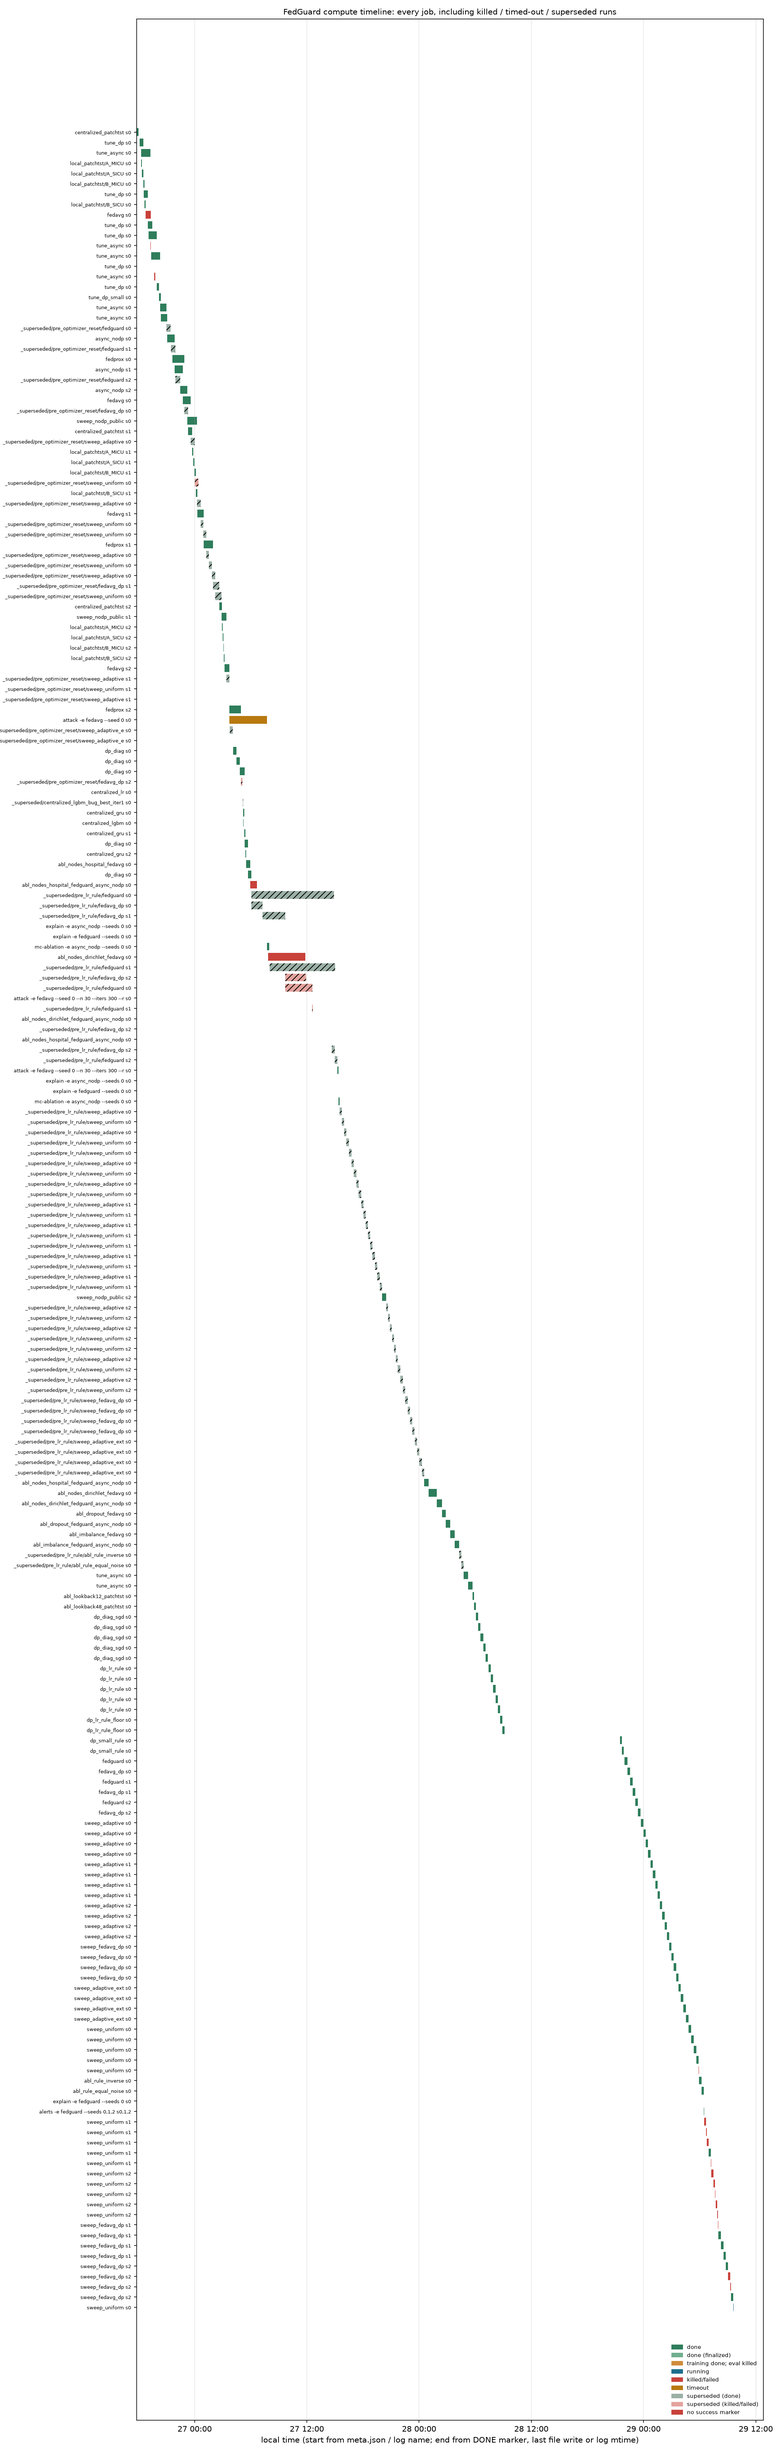
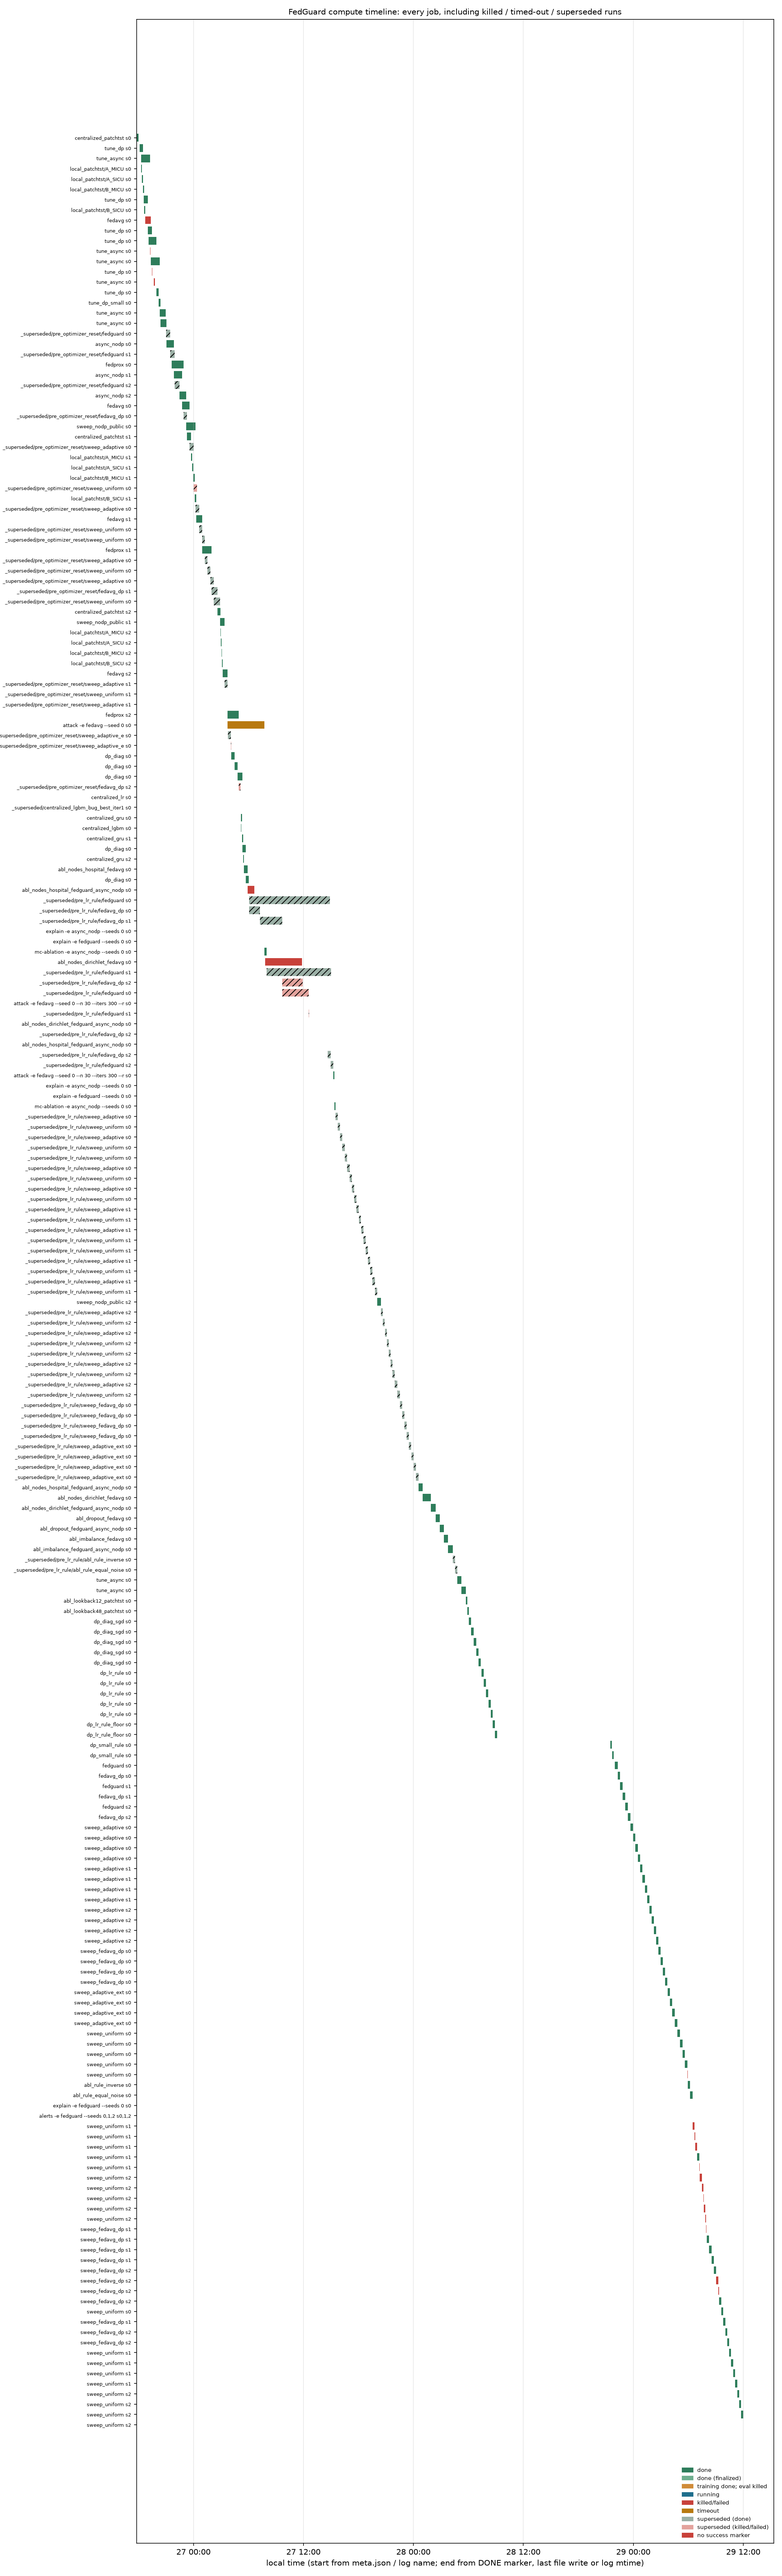
Report + proof after retry of the 13 failed DP runs

diff --git a/results/tables/privacy.tex b/results/tables/privacy.tex
@@ -2,11 +2,11 @@
 \toprule
 epsilon & FedGuard (adaptive) AUROC & FedGuard (adaptive) AUPRC & FedGuard (uniform rule) AUROC & FedGuard (uniform rule) AUPRC & FedAvg + DP (uniform) AUROC & FedAvg + DP (uniform) AUPRC \\
 \midrule
-1.000000 & 0.619 ± 0.030 & 0.026 ± 0.004 & 0.638 (n=1) & 0.028 (n=1) & 0.614 ± 0.036 & 0.025 ± 0.002 \\
-2.000000 & 0.618 ± 0.017 & 0.024 ± 0.002 & 0.637 (n=1) & 0.027 (n=1) & 0.622 ± 0.019 & 0.025 ± 0.004 \\
-3.000000 & 0.620 ± 0.018 & 0.024 ± 0.002 & 0.640 (n=1) & 0.026 (n=1) & 0.615 ± 0.017 & 0.024 ± 0.003 \\
-5.000000 & 0.616 ± 0.015 & 0.024 ± 0.003 & 0.616 ± 0.020 & 0.024 ± 0.004 & 0.611 ± 0.029 & 0.024 ± 0.005 \\
-8.000000 & 0.615 ± 0.013 & 0.024 ± 0.003 & not run yet & not run yet & 0.608 ± 0.021 & 0.024 ± 0.004 \\
+1.000000 & 0.619 ± 0.030 & 0.026 ± 0.004 & 0.614 ± 0.022 & 0.025 ± 0.003 & 0.617 ± 0.026 & 0.024 ± 0.002 \\
+2.000000 & 0.618 ± 0.017 & 0.024 ± 0.002 & 0.619 ± 0.017 & 0.024 ± 0.002 & 0.615 ± 0.019 & 0.024 ± 0.003 \\
+3.000000 & 0.620 ± 0.018 & 0.024 ± 0.002 & 0.620 ± 0.018 & 0.024 ± 0.002 & 0.615 ± 0.017 & 0.024 ± 0.003 \\
+5.000000 & 0.616 ± 0.015 & 0.024 ± 0.003 & 0.616 ± 0.020 & 0.024 ± 0.004 & 0.611 ± 0.021 & 0.024 ± 0.004 \\
+8.000000 & 0.615 ± 0.013 & 0.024 ± 0.003 & 0.617 ± 0.018 & 0.024 ± 0.004 & 0.608 ± 0.021 & 0.024 ± 0.004 \\
 16.000000 & 0.628 (n=1) & 0.027 (n=1) & not run yet & not run yet & not run yet & not run yet \\
 32.000000 & 0.628 (n=1) & 0.027 (n=1) & not run yet & not run yet & not run yet & not run yet \\
 64.000000 & 0.629 (n=1) & 0.028 (n=1) & not run yet & not run yet & not run yet & not run yet \\

diff --git a/docs/proof_of_compute.md b/docs/proof_of_compute.md
@@ -1,15 +1,15 @@
 # Proof of compute
 
-_Generated 2026-09-29 09:36 by `fedguard proof` from files on disk only (see the source list in `src/fedguard/eval/proof.py`). Nothing in this document is estimated or typed in by hand, except the section explicitly labelled as manual GPU readings. Regenerate with `fedguard proof`._
+_Generated 2026-09-29 18:55 by `fedguard proof` from files on disk only (see the source list in `src/fedguard/eval/proof.py`). Nothing in this document is estimated or typed in by hand, except the section explicitly labelled as manual GPU readings. Regenerate with `fedguard proof`._
 
 ## Summary
 
-- Jobs recorded (excluding 95 fast-mode smoke-test jobs): **212** (209 GPU jobs, 3 CPU-only sklearn baselines), from 2026-09-26 17:46 to 2026-09-29 09:36.
-- **GPU job-hours: 91.6 h.** This is the sum of the wall-clock durations of all GPU jobs, including failed, killed and superseded ones. Jobs that shared the GPU are each counted in full.
-- **GPU busy wall-clock: 50.9 h.** This is the union of GPU job intervals, i.e. time during which at least one job was running.
+- Jobs recorded (excluding 95 fast-mode smoke-test jobs): **223** (220 GPU jobs, 3 CPU-only sklearn baselines), from 2026-09-26 17:46 to 2026-09-29 11:59.
+- **GPU job-hours: 94.0 h.** This is the sum of the wall-clock durations of all GPU jobs, including failed, killed and superseded ones. Jobs that shared the GPU are each counted in full.
+- **GPU busy wall-clock: 53.2 h.** This is the union of GPU job intervals, i.e. time during which at least one job was running.
 - Maximum number of GPU jobs running at the same time: **6**.
 - GPU jobs with **unknown duration** (excluded from the totals above): 1 (attack -e fedavg --seed 0 --n 30 --iters 300 --restarts 2, started 2026-09-27 12:00).
-- GPU jobs by status: done: 117 (39.4 h), superseded (done): 58 (35.4 h), killed/failed: 21 (7.0 h), superseded (killed/failed): 9 (5.8 h), no success marker: 2 (0.0 h), running: 1 (0.0 h), timeout: 1 (4.0 h).
+- GPU jobs by status: done: 128 (41.7 h), superseded (done): 58 (35.4 h), killed/failed: 22 (7.1 h), superseded (killed/failed): 9 (5.8 h), no success marker: 2 (0.0 h), timeout: 1 (4.0 h).
 - GPU: NVIDIA GeForce RTX 4050 Laptop GPU.
 
 Failed, killed, timed-out and superseded runs are kept on purpose. They document the bugs and operational problems found and fixed during the project (docs/decisions.md D19–D38): an optimizer-state bug that invalidated the first DP results, a fixed DP learning rate that made the ε sweep collapse at large ε (superseded by the σ-scaled rule), hung jobs, watchdog false positives (including a kill of a new job whose pid Windows had reused), GPU memory overflow with several concurrent DP jobs, system-RAM exhaustion (MemoryError) caused by the OneDrive client holding ~31 GB, and a LightGBM early-stopping bug.
@@ -29,10 +29,10 @@ Failed, killed, timed-out and superseded runs are kept on purpose. They document
 
 ### From automated logs
 
-Automated samples: 5373 (nvidia-smi every 30 s) from 2026-09-27T12:40:15 to 2026-09-29T09:36:27.
+Automated samples: 6486 (nvidia-smi every 30 s) from 2026-09-27T12:40:15 to 2026-09-29T18:54:51.
 
 - **Peak dedicated GPU memory in the automated log: 5355 / 6141 MiB** at 2026-09-27T13:01:57 (2 FedGuard job(s) running, utilisation 100%).
-- Mean memory used: 2426 MiB; mean utilisation: 41%.
+- Mean memory used: 2191 MiB; mean utilisation: 37%.
 - Samples by number of concurrent FedGuard jobs (max memory MiB): 0 job(s): 1077, 1 job(s): 5242, 2 job(s): 5355
 
 - Highest per-run peak allocation recorded by a run itself (torch.cuda.max_memory_allocated): 2973 MiB (fedguard, seed 1).
@@ -262,11 +262,63 @@ These readings were taken by hand with `nvidia-smi` during the session, **before
 | sweep_fedavg_dp                                           | 2      | fedavg/sync, DP eps=2.0 uniform, opt-reset                        | 2026-09-29 09:02 | 2026-09-29 09:16 | last file write                                                | 0.23             | killed/failed              | NVIDIA GeForce RTX 4050 Laptop GPU |              |              |
 | sweep_fedavg_dp                                           | 2      | fedavg/sync, DP eps=5.0 uniform, opt-reset                        | 2026-09-29 09:16 | 2026-09-29 09:21 | last file write                                                | 0.08             | killed/failed              | NVIDIA GeForce RTX 4050 Laptop GPU |              |              |
 | sweep_fedavg_dp                                           | 2      | fedavg/sync, DP eps=8.0 uniform, opt-reset                        | 2026-09-29 09:21 | 2026-09-29 09:35 | DONE marker                                                    | 0.22             | done                       | NVIDIA GeForce RTX 4050 Laptop GPU | 0.6087       | 0.023        |
-| sweep_uniform                                             | 0      | fedguard_async/async, DP eps=8.0 uniform, opt-reset               | 2026-09-29 09:35 | 2026-09-29 09:36 | still running (now)                                            | 0.01             | running                    | NVIDIA GeForce RTX 4050 Laptop GPU |              |              |
+| sweep_uniform                                             | 0      | fedguard_async/async, DP eps=8.0 uniform, opt-reset               | 2026-09-29 09:35 | 2026-09-29 09:48 | DONE marker                                                    | 0.21             | done                       | NVIDIA GeForce RTX 4050 Laptop GPU | 0.6297       | 0.027        |
+| sweep_fedavg_dp                                           | 1      | fedavg/sync, DP eps=1.0 uniform, opt-reset                        | 2026-09-29 09:49 | 2026-09-29 10:01 | DONE marker                                                    | 0.21             | done                       | NVIDIA GeForce RTX 4050 Laptop GPU | 0.624        | 0.0229       |
+| sweep_fedavg_dp                                           | 2      | fedavg/sync, DP eps=2.0 uniform, opt-reset                        | 2026-09-29 10:02 | 2026-09-29 10:14 | DONE marker                                                    | 0.21             | done                       | NVIDIA GeForce RTX 4050 Laptop GPU | 0.6004       | 0.0232       |
+| sweep_fedavg_dp                                           | 2      | fedavg/sync, DP eps=5.0 uniform, opt-reset                        | 2026-09-29 10:14 | 2026-09-29 10:27 | DONE marker                                                    | 0.21             | done                       | NVIDIA GeForce RTX 4050 Laptop GPU | 0.611        | 0.0229       |
+| sweep_uniform                                             | 1      | fedguard_async/async, DP eps=1.0 uniform, opt-reset               | 2026-09-29 10:27 | 2026-09-29 10:40 | DONE marker                                                    | 0.21             | done                       | NVIDIA GeForce RTX 4050 Laptop GPU | 0.5955       | 0.0235       |
+| sweep_uniform                                             | 1      | fedguard_async/async, DP eps=2.0 uniform, opt-reset               | 2026-09-29 10:40 | 2026-09-29 10:53 | DONE marker                                                    | 0.22             | done                       | NVIDIA GeForce RTX 4050 Laptop GPU | 0.6031       | 0.0231       |
+| sweep_uniform                                             | 1      | fedguard_async/async, DP eps=3.0 uniform, opt-reset               | 2026-09-29 10:53 | 2026-09-29 11:06 | DONE marker                                                    | 0.22             | done                       | NVIDIA GeForce RTX 4050 Laptop GPU | 0.6055       | 0.0224       |
+| sweep_uniform                                             | 1      | fedguard_async/async, DP eps=8.0 uniform, opt-reset               | 2026-09-29 11:06 | 2026-09-29 11:19 | DONE marker                                                    | 0.22             | done                       | NVIDIA GeForce RTX 4050 Laptop GPU | 0.6038       | 0.0208       |
+| sweep_uniform                                             | 2      | fedguard_async/async, DP eps=1.0 uniform, opt-reset               | 2026-09-29 11:19 | 2026-09-29 11:32 | DONE marker                                                    | 0.22             | done                       | NVIDIA GeForce RTX 4050 Laptop GPU | 0.6095       | 0.0229       |
+| sweep_uniform                                             | 2      | fedguard_async/async, DP eps=2.0 uniform, opt-reset               | 2026-09-29 11:32 | 2026-09-29 11:46 | DONE marker                                                    | 0.22             | done                       | NVIDIA GeForce RTX 4050 Laptop GPU | 0.6153       | 0.0234       |
+| sweep_uniform                                             | 2      | fedguard_async/async, DP eps=3.0 uniform, opt-reset               | 2026-09-29 11:46 | 2026-09-29 11:59 | DONE marker                                                    | 0.22             | done                       | NVIDIA GeForce RTX 4050 Laptop GPU | 0.6145       | 0.0233       |
+| sweep_uniform                                             | 2      | fedguard_async/async, DP eps=5.0 uniform, opt-reset               | 2026-09-29 11:59 | 2026-09-29 11:59 | last file write                                                | 0.01             | killed/failed              | NVIDIA GeForce RTX 4050 Laptop GPU |              |              |
 
 ## Commit timeline (`git log --stat`)
 
 ```
+commit bc379b7c55a63cafc7c6f4aa1c66ddb9daeeabd3
+Author: YourIPaddress <myselfshrikar@gmail.com>
+Date:   2026-09-29 09:37:55 +0530
+
+    Report + proof after the sigma-scaled-lr DP rerun; privacy table includes large-eps extension; D39 incidents
+    
+    Co-Authored-By: Claude Opus 5.5 <noreply@anthropic.com>
+
+ docs/decisions.md                        |  11 +
+ docs/figures/compute_timeline.png        | Bin 287620 -> 639005 bytes
+ docs/proof_of_compute.md                 | 571 +++++++++++++++++++++++++------
+ results/figures/alerts.png               | Bin 49223 -> 59703 bytes
+ results/figures/attack_example.png       | Bin 0 -> 170206 bytes
+ results/figures/methods_auroc_auprc.png  | Bin 90294 -> 90298 bytes
+ results/figures/privacy_utility.png      | Bin 49512 -> 66745 bytes
+ results/figures/sync_vs_async.png        | Bin 80219 -> 98612 bytes
+ results/report_summary.json              |   6 +-
+ results/summary.csv                      | 166 ++++++---
+ results/tables/ALL.md                    |  65 ++--
+ results/tables/ablation_budget_rules.md  |   6 +-
+ results/tables/ablation_budget_rules.tex |   6 +-
+ results/tables/ablation_lookback.md      |   4 +-
+ results/tables/ablation_lookback.tex     |   4 +-
+ results/tables/ablation_node_count.md    |   6 +-
+ results/tables/ablation_node_count.tex   |   6 +-
+ results/tables/ablation_sync_async.md    |   8 +-
+ results/tables/ablation_sync_async.tex   |   8 +-
+ results/tables/alerts.md                 |  14 +-
+ results/tables/alerts.tex                |  14 +-
+ results/tables/async_tuning.md           |   4 +-
+ results/tables/async_tuning.tex          |   2 +
+ results/tables/calibration.md            |   7 +-
+ results/tables/calibration.tex           |   1 +
+ results/tables/main.md                   |   2 +-
+ results/tables/main.tex                  |   2 +-
+ results/tables/privacy.md                |  16 +-
+ results/tables/privacy.tex               |  16 +-
+ src/fedguard/eval/proof.py               |   7 +-
+ src/fedguard/eval/report.py              |   7 +-
+ 31 files changed, 712 insertions(+), 247 deletions(-)
+
 commit f5ed6487cceb85fc28528f113298d5cbbe2261f4
 Author: YourIPaddress <myselfshrikar@gmail.com>
 Date:   2026-09-29 09:26:01 +0530

diff --git a/results/tables/ALL.md b/results/tables/ALL.md
@@ -17,11 +17,11 @@
 
 | epsilon                    | FedGuard (adaptive) AUROC   | FedGuard (adaptive) AUPRC   | FedGuard (uniform rule) AUROC   | FedGuard (uniform rule) AUPRC   | FedAvg + DP (uniform) AUROC   | FedAvg + DP (uniform) AUPRC   |
 |:---------------------------|:----------------------------|:----------------------------|:--------------------------------|:--------------------------------|:------------------------------|:------------------------------|
-| 1.0                        | 0.619 ± 0.030               | 0.026 ± 0.004               | 0.638 (n=1)                     | 0.028 (n=1)                     | 0.614 ± 0.036                 | 0.025 ± 0.002                 |
-| 2.0                        | 0.618 ± 0.017               | 0.024 ± 0.002               | 0.637 (n=1)                     | 0.027 (n=1)                     | 0.622 ± 0.019                 | 0.025 ± 0.004                 |
-| 3.0                        | 0.620 ± 0.018               | 0.024 ± 0.002               | 0.640 (n=1)                     | 0.026 (n=1)                     | 0.615 ± 0.017                 | 0.024 ± 0.003                 |
-| 5.0                        | 0.616 ± 0.015               | 0.024 ± 0.003               | 0.616 ± 0.020                   | 0.024 ± 0.004                   | 0.611 ± 0.029                 | 0.024 ± 0.005                 |
-| 8.0                        | 0.615 ± 0.013               | 0.024 ± 0.003               | not run yet                     | not run yet                     | 0.608 ± 0.021                 | 0.024 ± 0.004                 |
+| 1.0                        | 0.619 ± 0.030               | 0.026 ± 0.004               | 0.614 ± 0.022                   | 0.025 ± 0.003                   | 0.617 ± 0.026                 | 0.024 ± 0.002                 |
+| 2.0                        | 0.618 ± 0.017               | 0.024 ± 0.002               | 0.619 ± 0.017                   | 0.024 ± 0.002                   | 0.615 ± 0.019                 | 0.024 ± 0.003                 |
+| 3.0                        | 0.620 ± 0.018               | 0.024 ± 0.002               | 0.620 ± 0.018                   | 0.024 ± 0.002                   | 0.615 ± 0.017                 | 0.024 ± 0.003                 |
+| 5.0                        | 0.616 ± 0.015               | 0.024 ± 0.003               | 0.616 ± 0.020                   | 0.024 ± 0.004                   | 0.611 ± 0.021                 | 0.024 ± 0.004                 |
+| 8.0                        | 0.615 ± 0.013               | 0.024 ± 0.003               | 0.617 ± 0.018                   | 0.024 ± 0.004                   | 0.608 ± 0.021                 | 0.024 ± 0.004                 |
 | 16.0                       | 0.628 (n=1)                 | 0.027 (n=1)                 | not run yet                     | not run yet                     | not run yet                   | not run yet                   |
 | 32.0                       | 0.628 (n=1)                 | 0.027 (n=1)                 | not run yet                     | not run yet                     | not run yet                   | not run yet                   |
 | 64.0                       | 0.629 (n=1)                 | 0.028 (n=1)                 | not run yet                     | not run yet                     | not run yet                   | not run yet                   |

diff --git a/results/tables/privacy.md b/results/tables/privacy.md
@@ -1,10 +1,10 @@
 | epsilon                    | FedGuard (adaptive) AUROC   | FedGuard (adaptive) AUPRC   | FedGuard (uniform rule) AUROC   | FedGuard (uniform rule) AUPRC   | FedAvg + DP (uniform) AUROC   | FedAvg + DP (uniform) AUPRC   |
 |:---------------------------|:----------------------------|:----------------------------|:--------------------------------|:--------------------------------|:------------------------------|:------------------------------|
-| 1.0                        | 0.619 ± 0.030               | 0.026 ± 0.004               | 0.638 (n=1)                     | 0.028 (n=1)                     | 0.614 ± 0.036                 | 0.025 ± 0.002                 |
-| 2.0                        | 0.618 ± 0.017               | 0.024 ± 0.002               | 0.637 (n=1)                     | 0.027 (n=1)                     | 0.622 ± 0.019                 | 0.025 ± 0.004                 |
-| 3.0                        | 0.620 ± 0.018               | 0.024 ± 0.002               | 0.640 (n=1)                     | 0.026 (n=1)                     | 0.615 ± 0.017                 | 0.024 ± 0.003                 |
-| 5.0                        | 0.616 ± 0.015               | 0.024 ± 0.003               | 0.616 ± 0.020                   | 0.024 ± 0.004                   | 0.611 ± 0.029                 | 0.024 ± 0.005                 |
-| 8.0                        | 0.615 ± 0.013               | 0.024 ± 0.003               | not run yet                     | not run yet                     | 0.608 ± 0.021                 | 0.024 ± 0.004                 |
+| 1.0                        | 0.619 ± 0.030               | 0.026 ± 0.004               | 0.614 ± 0.022                   | 0.025 ± 0.003                   | 0.617 ± 0.026                 | 0.024 ± 0.002                 |
+| 2.0                        | 0.618 ± 0.017               | 0.024 ± 0.002               | 0.619 ± 0.017                   | 0.024 ± 0.002                   | 0.615 ± 0.019                 | 0.024 ± 0.003                 |
+| 3.0                        | 0.620 ± 0.018               | 0.024 ± 0.002               | 0.620 ± 0.018                   | 0.024 ± 0.002                   | 0.615 ± 0.017                 | 0.024 ± 0.003                 |
+| 5.0                        | 0.616 ± 0.015               | 0.024 ± 0.003               | 0.616 ± 0.020                   | 0.024 ± 0.004                   | 0.611 ± 0.021                 | 0.024 ± 0.004                 |
+| 8.0                        | 0.615 ± 0.013               | 0.024 ± 0.003               | 0.617 ± 0.018                   | 0.024 ± 0.004                   | 0.608 ± 0.021                 | 0.024 ± 0.004                 |
 | 16.0                       | 0.628 (n=1)                 | 0.027 (n=1)                 | not run yet                     | not run yet                     | not run yet                   | not run yet                   |
 | 32.0                       | 0.628 (n=1)                 | 0.027 (n=1)                 | not run yet                     | not run yet                     | not run yet                   | not run yet                   |
 | 64.0                       | 0.629 (n=1)                 | 0.028 (n=1)                 | not run yet                     | not run yet                     | not run yet                   | not run yet                   |
